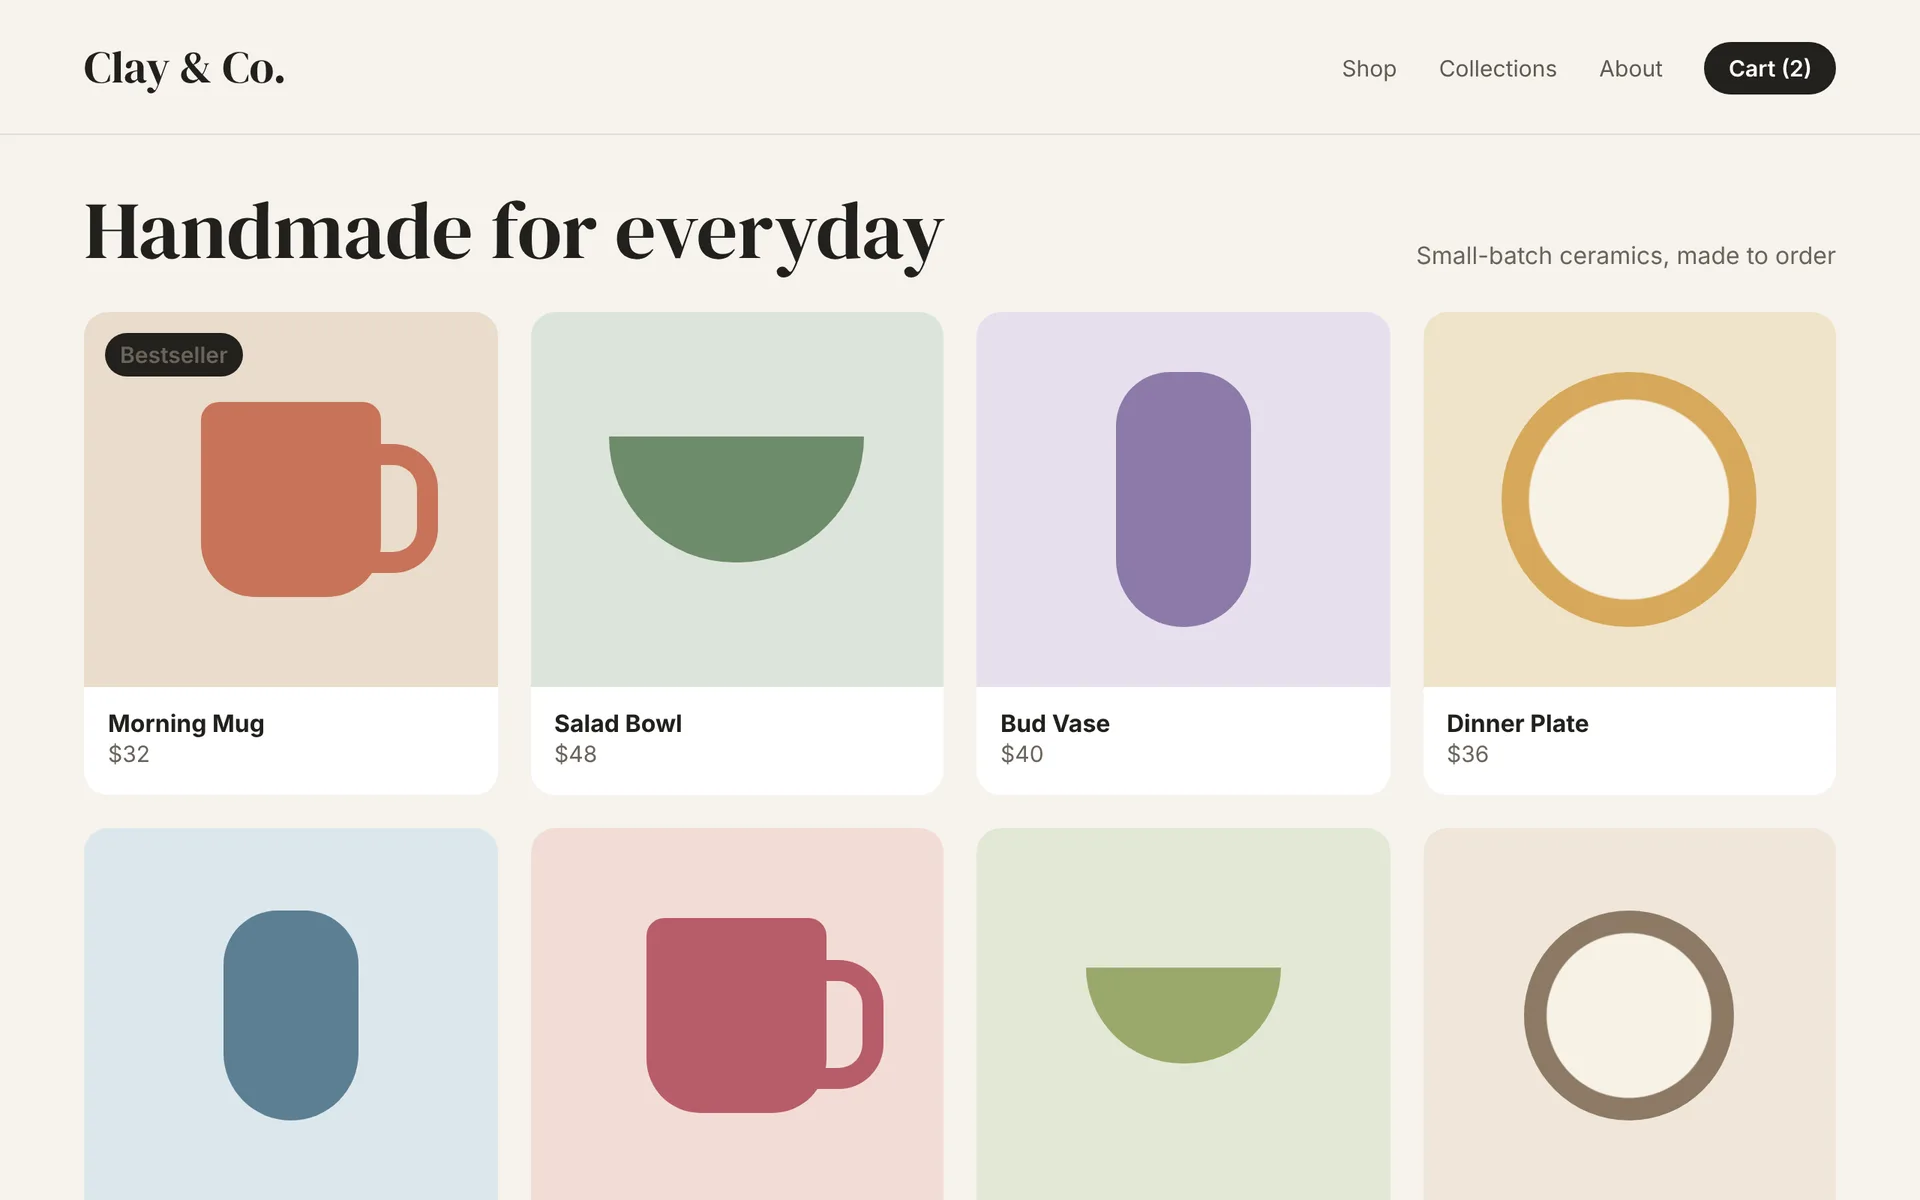
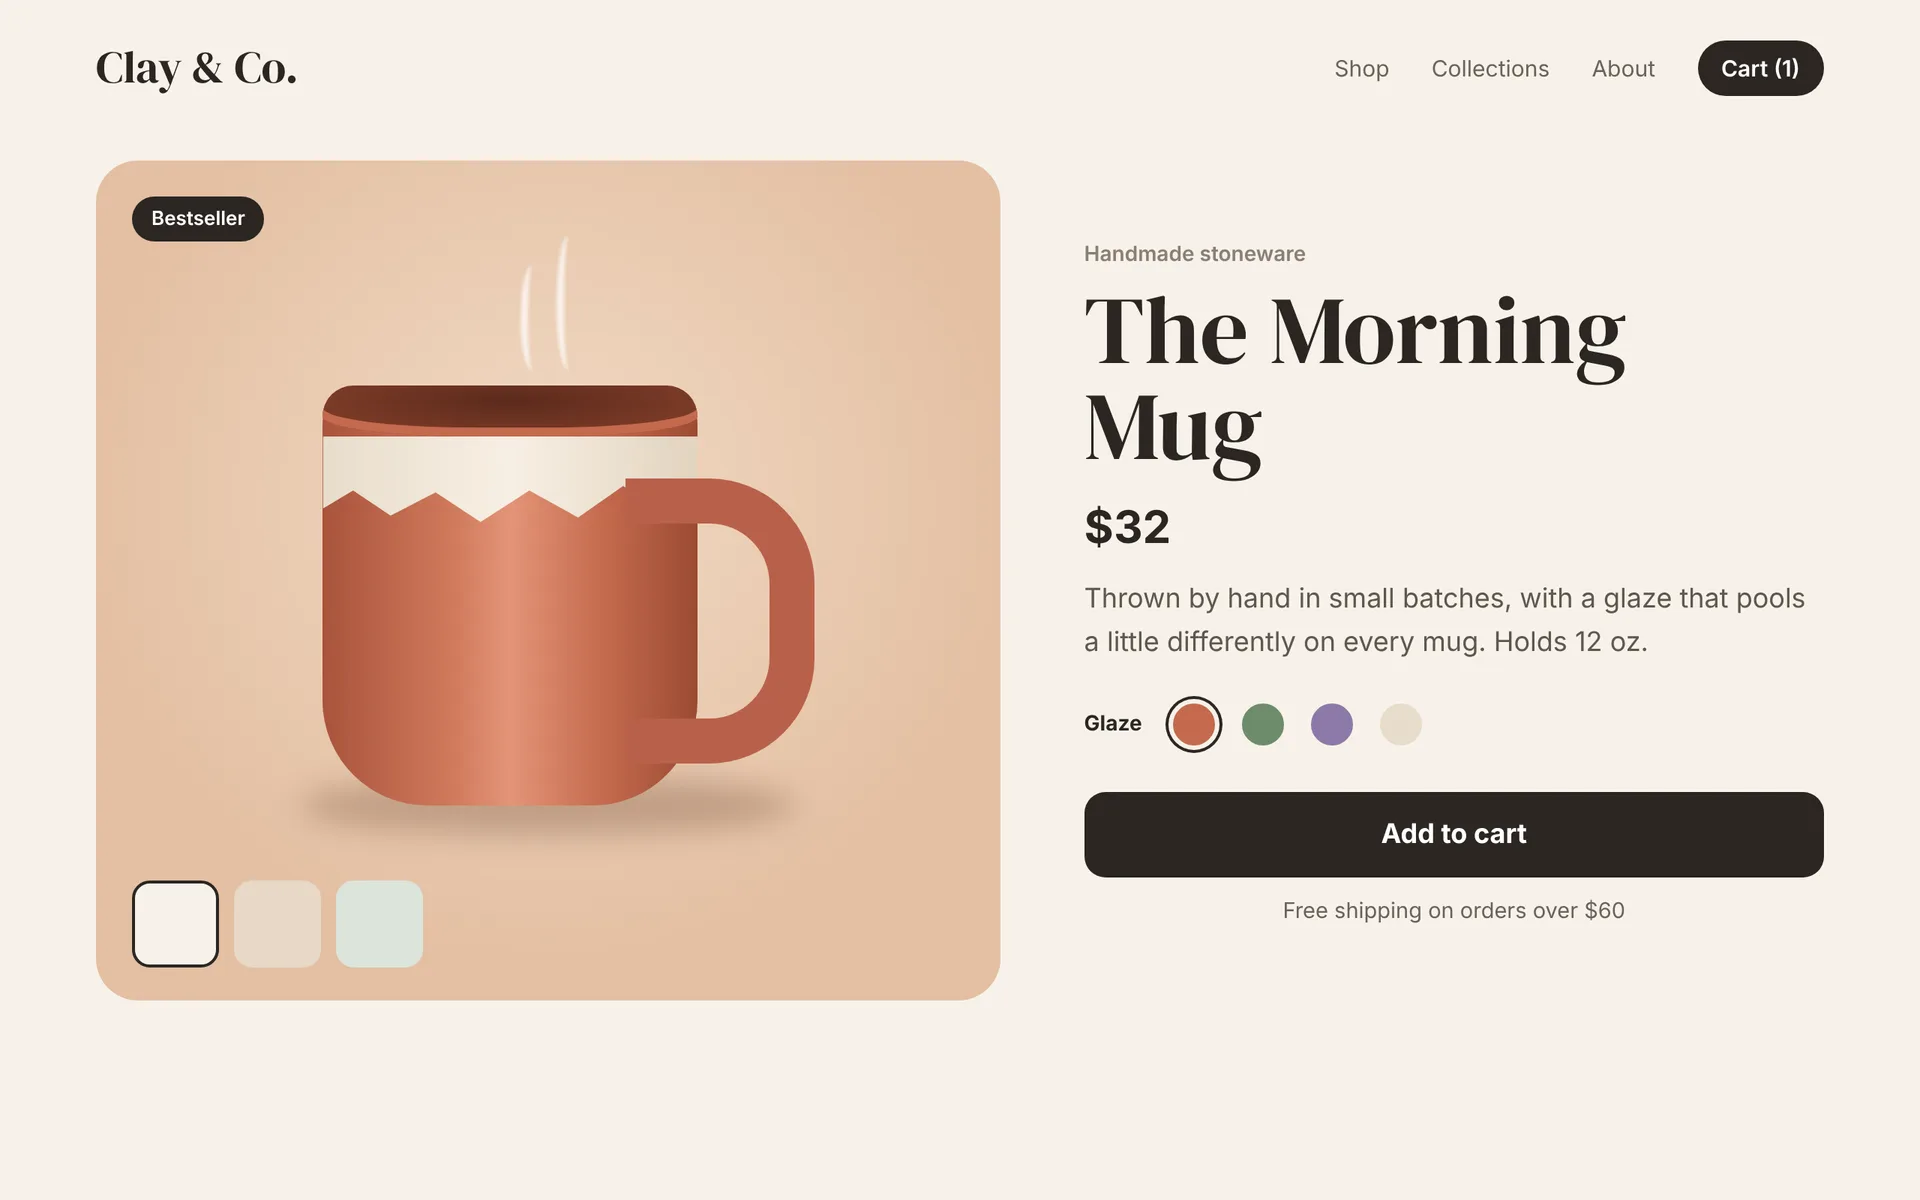
Launch page: redesign store and teacher example screens
Claude-Session: https://claude.ai/code/session_01K5HZtQp5HBm5zsBKCimSuC

diff --git a/ads/launch-page-mocks/store.html b/ads/launch-page-mocks/store.html
@@ -1,30 +1,33 @@
 <!doctype html><html><head><meta charset="utf-8"><link rel="stylesheet" href="fonts.css"><style>
-body{width:1280px;height:800px;background:#F6F3EE;color:#22201C}
-nav{display:flex;justify-content:space-between;align-items:center;padding:24px 56px;border-bottom:1px solid #E4DED4}
+body{width:1280px;height:800px;background:#F7F2EA;color:#2B2622}
+nav{display:flex;justify-content:space-between;align-items:center;padding:24px 64px}
 .lg{font-family:DMSerif;font-size:30px}
-nav div span{font-size:15px;color:#5F5A51;margin-left:28px}nav .cart{background:#22201C;color:#fff;border-radius:99px;padding:8px 16px;font-weight:600}
-.top{display:flex;justify-content:space-between;align-items:end;padding:36px 56px 0}
-h1{font-family:DMSerif;font-weight:400;font-size:54px;line-height:1}.top p{color:#6A645A;font-size:16px}
-.grid{display:grid;grid-template-columns:repeat(4,1fr);gap:22px;padding:28px 56px}
-.c{background:#fff;border-radius:16px;overflow:hidden}
-.ph{height:250px;display:grid;place-items:center;position:relative}
-.c .meta{padding:14px 16px 18px}.c b{display:block;font-size:16px}.c span{font-size:15px;color:#6A645A}
-.mug{width:120px;height:130px;border-radius:12px 12px 36px 36px;position:relative}
-.mug::after{content:"";position:absolute;right:-38px;top:28px;width:44px;height:58px;border:14px solid;border-color:inherit;border-radius:0 30px 30px 0;border-left:0}
-.bowl{width:170px;height:84px;border-radius:0 0 90px 90px}
-.vase{width:90px;height:170px;border-radius:40px 40px 50px 50px}
-.plate{width:170px;height:170px;border-radius:50%}
-.badge{position:absolute;top:14px;left:14px;background:#22201C;color:#fff;font-size:12px;font-weight:600;padding:5px 10px;border-radius:99px}
+nav div span{font-size:15px;color:#6A625A;margin-left:28px}nav .cart{background:#2B2622;color:#fff;border-radius:99px;padding:9px 16px;font-weight:600}
+.wrap{display:grid;grid-template-columns:1.1fr .9fr;gap:56px;padding:18px 64px 0;align-items:center}
+.stage{position:relative;height:560px;border-radius:28px;background:radial-gradient(circle at 50% 40%,#F1D9C4,#E3BFA2 70%);overflow:hidden}
+.shadow{position:absolute;left:50%;bottom:110px;width:330px;height:40px;margin-left:-165px;border-radius:50%;background:rgba(90,50,30,.28);filter:blur(10px)}
+.mug{position:absolute;left:50%;top:150px;width:250px;height:280px;margin-left:-150px;border-radius:26px 26px 70px 70px;background:linear-gradient(90deg,#A9533B 0%,#D07A5C 35%,#E39478 50%,#C46A4D 75%,#9B4A33 100%)}
+.mug::before{content:"";position:absolute;left:0;right:0;top:0;height:34px;border-radius:26px 26px 50% 50%;background:radial-gradient(ellipse at 50% 30%,#5B2A1C,#7A3A27 70%);box-shadow:inset 0 -6px 0 #C46A4D}
+.mug::after{content:"";position:absolute;right:-78px;top:62px;width:96px;height:130px;border:30px solid #B9604A;border-left:0;border-radius:0 70px 70px 0}
+.glaze{position:absolute;left:0;right:0;top:34px;height:60px;background:linear-gradient(90deg,#E8DCCB,#F7EFE3 50%,#E2D3BF);clip-path:polygon(0 0,100% 0,100% 50%,90% 80%,80% 55%,68% 90%,55% 60%,42% 95%,30% 62%,18% 88%,8% 60%,0 80%)}
+.steam{position:absolute;top:70px;width:16px;height:70px;border-radius:50%;border-left:5px solid rgba(255,255,255,.7);filter:blur(1px)}
+.tag{position:absolute;top:24px;left:24px;background:#2B2622;color:#fff;font-size:13px;font-weight:600;padding:7px 13px;border-radius:99px}
+.thumbs{position:absolute;bottom:22px;left:24px;display:flex;gap:10px}.thumbs i{width:58px;height:58px;border-radius:12px;background:#F7F2EA;border:2px solid transparent}.thumbs i:first-child{border-color:#2B2622}
+.k{font-size:14px;color:#8A7F74;font-weight:600}
+h1{font-family:DMSerif;font-weight:400;font-size:64px;line-height:1;margin-top:10px}
+.pr{font-size:30px;font-weight:700;margin-top:18px}
+p.s{font-size:18px;line-height:1.6;color:#5F574F;margin-top:16px}
+.sw{display:flex;gap:12px;margin-top:22px;align-items:center}.sw b{font-size:14px;margin-right:6px}.sw i{width:34px;height:34px;border-radius:50%;border:3px solid #F7F2EA;box-shadow:0 0 0 2px transparent}.sw i.on{box-shadow:0 0 0 2px #2B2622}
+.add{margin-top:28px;background:#2B2622;color:#fff;text-align:center;font-weight:700;font-size:18px;padding:18px;border-radius:14px}
+.ship{margin-top:14px;font-size:14.5px;color:#6A625A;text-align:center}
 </style></head><body>
-<nav><div class="lg">Clay &amp; Co.</div><div><span>Shop</span><span>Collections</span><span>About</span><span class="cart">Cart (2)</span></div></nav>
-<div class="top"><h1>Handmade for everyday</h1><p>Small-batch ceramics, made to order</p></div>
-<div class="grid">
-<div class="c"><div class="ph" style="background:#E9DCCB"><span class="badge">Bestseller</span><div class="mug" style="background:#C8735A;border-color:#C8735A"></div></div><div class="meta"><b>Morning Mug</b><span>$32</span></div></div>
-<div class="c"><div class="ph" style="background:#DCE4DA"><div class="bowl" style="background:#6E8B6B"></div></div><div class="meta"><b>Salad Bowl</b><span>$48</span></div></div>
-<div class="c"><div class="ph" style="background:#E6E0EE"><div class="vase" style="background:#8C7AA8"></div></div><div class="meta"><b>Bud Vase</b><span>$40</span></div></div>
-<div class="c"><div class="ph" style="background:#F0E3C9"><div class="plate" style="background:radial-gradient(circle,#F7F1E6 0 55%,#D6A85A 56%)"></div></div><div class="meta"><b>Dinner Plate</b><span>$36</span></div></div>
-<div class="c"><div class="ph" style="background:#DDE7EC"><div class="vase" style="background:#5C7F94;height:140px"></div></div><div class="meta"><b>Pitcher</b><span>$54</span></div></div>
-<div class="c"><div class="ph" style="background:#F2DCD6"><div class="mug" style="background:#B85C6A;border-color:#B85C6A"></div></div><div class="meta"><b>Tea Cup</b><span>$28</span></div></div>
-<div class="c"><div class="ph" style="background:#E3E8D6"><div class="bowl" style="background:#9AA86A;width:130px;height:64px"></div></div><div class="meta"><b>Cereal Bowl</b><span>$30</span></div></div>
-<div class="c"><div class="ph" style="background:#EFE6DA"><div class="plate" style="background:radial-gradient(circle,#F7F1E6 0 55%,#8C7A64 56%);width:140px;height:140px"></div></div><div class="meta"><b>Side Plate</b><span>$26</span></div></div>
-</div></body></html>
+<nav><div class="lg">Clay &amp; Co.</div><div><span>Shop</span><span>Collections</span><span>About</span><span class="cart">Cart (1)</span></div></nav>
+<div class="wrap"><div class="stage"><span class="tag">Bestseller</span>
+<div class="steam" style="left:560px;left:47%"></div><div class="steam" style="left:51%;top:50px;height:90px"></div>
+<div class="shadow"></div><div class="mug"><div class="glaze"></div></div>
+<div class="thumbs"><i></i><i style="background:#E7D8C6"></i><i style="background:#DCE4DA"></i></div></div>
+<div><span class="k">Handmade stoneware</span><h1>The Morning Mug</h1><div class="pr">$32</div>
+<p class="s">Thrown by hand in small batches, with a glaze that pools a little differently on every mug. Holds 12 oz.</p>
+<div class="sw"><b>Glaze</b><i class="on" style="background:#C46A4D"></i><i style="background:#6E8B6B"></i><i style="background:#8C7AA8"></i><i style="background:#E8DCCB"></i></div>
+<div class="add">Add to cart</div><p class="ship">Free shipping on orders over $60</p></div></div>
+</body></html>

diff --git a/ads/launch-page-mocks/teach.html b/ads/launch-page-mocks/teach.html
@@ -1,20 +1,23 @@
 <!doctype html><html><head><meta charset="utf-8"><link rel="stylesheet" href="fonts.css"><style>
-body{width:1280px;height:800px;background:#EEF4FF;color:#14213D}
+body{width:1280px;height:800px;background:#F2F6FF;color:#14213D}
 nav{display:flex;justify-content:space-between;align-items:center;padding:26px 64px}
 .lg{font-family:Grotesk;font-weight:700;font-size:24px}.lg i{font-style:normal;color:#3B6FE0}
 nav span{font-size:15px;color:#4A5878;margin-left:28px}
-.hero{display:grid;grid-template-columns:1fr 1fr;gap:40px;padding:30px 64px;align-items:center}
-.note{font-family:Caveat;font-weight:700;font-size:30px;color:#E0643B}
-h1{font-family:Grotesk;font-weight:700;font-size:62px;line-height:1;letter-spacing:-.03em;margin-top:8px}
-p.s{font-size:19px;line-height:1.55;color:#3F4C6B;margin-top:20px}
+.hero{display:grid;grid-template-columns:1fr 1fr;gap:40px;padding:26px 64px;align-items:center}
+.note{font-family:Caveat;font-weight:700;font-size:32px;color:#E0643B}
+h1{font-family:Grotesk;font-weight:700;font-size:64px;line-height:.98;letter-spacing:-.03em;margin-top:6px}
+p.s{font-size:19px;line-height:1.55;color:#3F4C6B;margin-top:18px}
 .grades{display:flex;gap:10px;margin-top:22px}.grades span{background:#fff;border:1.5px solid #C9D6F2;border-radius:10px;padding:8px 14px;font-weight:600;font-size:15px}
-.buy{display:flex;align-items:center;gap:18px;margin-top:28px}.btn{background:#3B6FE0;color:#fff;font-weight:700;font-size:18px;padding:18px 30px;border-radius:12px}
+.buy{display:flex;align-items:center;gap:18px;margin-top:28px}.btn{background:#3B6FE0;color:#fff;font-weight:700;font-size:18px;padding:18px 30px;border-radius:12px;box-shadow:0 10px 24px -10px #3B6FE0}
 .pr{font-family:Grotesk;font-weight:700;font-size:34px}
-.stack{position:relative;height:520px}
-.sh{position:absolute;width:330px;height:430px;background:#fff;border-radius:10px;box-shadow:0 20px 40px -20px rgba(20,33,61,.4);padding:28px}
-.sh h4{font-family:Grotesk;font-size:20px}.ln{height:10px;border-radius:5px;background:#E3EAF7;margin-top:14px}
-.box{display:flex;gap:10px;margin-top:18px}.box i{width:22px;height:22px;border:2px solid #C9D6F2;border-radius:6px}
-.star{position:absolute;right:30px;top:20px;width:110px;height:110px;border-radius:50%;background:#FFC93C;display:grid;place-items:center;text-align:center;font-family:Grotesk;font-weight:700;font-size:18px;line-height:1.05;transform:rotate(10deg)}
+.art{position:relative;height:560px}
+.blob{position:absolute;right:20px;top:40px;width:470px;height:470px;border-radius:50%;background:#FFE58A}
+.bk{position:absolute;width:250px;height:330px;border-radius:6px 16px 16px 6px;padding:30px 24px;color:#fff;box-shadow:18px 26px 40px -18px rgba(20,33,61,.5),inset 10px 0 0 rgba(0,0,0,.14)}
+.bk small{font-size:12px;font-weight:700;letter-spacing:.05em;opacity:.9}
+.bk b{display:block;font-family:Grotesk;font-size:34px;line-height:1;margin-top:12px}
+.bk em{display:block;font-style:normal;margin-top:12px;font-size:14px;opacity:.9}
+.bk .icon{position:absolute;bottom:26px;left:24px;font-size:56px}
+.pin{position:absolute;right:40px;top:30px;width:120px;height:120px;border-radius:50%;background:#E0643B;color:#fff;display:grid;place-items:center;text-align:center;font-family:Grotesk;font-weight:700;font-size:20px;line-height:1.05;transform:rotate(10deg);box-shadow:0 12px 24px -10px rgba(0,0,0,.35)}
 </style></head><body>
 <nav><div class="lg">Ms. Rivera's <i>Classroom</i></div><div><span>Resources</span><span>Freebies</span><span>About</span></div></nav>
 <div class="hero"><div>
@@ -23,8 +26,9 @@ p.s{font-size:19px;line-height:1.55;color:#3F4C6B;margin-top:20px}
 <p class="s">120 printable worksheets with answer keys. Print, copy and teach, with no prep on Sunday night.</p>
 <div class="grades"><span>Grade 3</span><span>Grade 4</span><span>Grade 5</span></div>
 <div class="buy"><span class="btn">Buy the kit</span><span class="pr">$19</span></div>
-</div><div class="stack">
-<div class="sh" style="left:70px;top:60px;transform:rotate(-8deg)"></div>
-<div class="sh" style="left:120px;top:40px;transform:rotate(3deg)"><h4>Main Idea &amp; Details</h4><div class="ln"></div><div class="ln" style="width:80%"></div><div class="ln" style="width:90%"></div><div class="box"><i></i><div class="ln" style="flex:1;margin:6px 0 0"></div></div><div class="box"><i></i><div class="ln" style="flex:1;margin:6px 0 0"></div></div><div class="box"><i></i><div class="ln" style="flex:1;margin:6px 0 0"></div></div><div class="ln" style="margin-top:26px"></div><div class="ln" style="width:70%"></div></div>
-<div class="star">120<br>pages</div>
+</div><div class="art"><div class="blob"></div>
+<div class="bk" style="left:40px;top:130px;background:linear-gradient(160deg,#F28B50,#E0643B);transform:rotate(-12deg)"><small>BOOK 1</small><b>Main Idea</b><em>40 worksheets</em><div class="icon">📖</div></div>
+<div class="bk" style="left:330px;top:120px;background:linear-gradient(160deg,#5ACB9A,#2FA77A);transform:rotate(9deg)"><small>BOOK 3</small><b>Making Inferences</b><em>40 worksheets</em><div class="icon">💡</div></div>
+<div class="bk" style="left:180px;top:70px;background:linear-gradient(160deg,#5B8CF0,#3B6FE0);transform:rotate(-2deg)"><small>BOOK 2</small><b>Story Elements</b><em>40 worksheets</em><div class="icon">✏</div></div>
+<div class="pin">120<br>pages</div>
 </div></div></body></html>

diff --git a/site/lp/launch/index.html b/site/lp/launch/index.html
@@ -177,7 +177,7 @@ if(h.indexOf('checkout.oceanicfunnels.com')>-1){fbq('track','InitiateCheckout',{
 <section class="ln-sec"><div class="nf-wrap">
   <h2>What you can build with Launch</h2>
   <p class="lead">Example pages for the kinds of businesses that start on Launch. Pick a template, swap in your own words and products, and publish.</p>
-  <div class="ln-gal"><figure><div class="ln-bw"><div class="tb"><i></i><i></i><i></i></div><div class="im"><img src="/assets/launch/sales.webp" alt="Example sales page for a meal prep guide" width="1920" height="1200" loading="lazy"></div></div><figcaption><b>A sales page for a guide</b><span>Sell a recipe book, workbook or any digital download.</span></figcaption></figure><figure><div class="ln-bw"><div class="tb"><i></i><i></i><i></i></div><div class="im"><img src="/assets/launch/store.webp" alt="Example online store selling handmade ceramics" width="1920" height="1200" loading="lazy"></div></div><figcaption><b>An online store</b><span>List your products, set prices and take orders.</span></figcaption></figure><figure><div class="ln-bw"><div class="tb"><i></i><i></i><i></i></div><div class="im"><img src="/assets/launch/teach.webp" alt="Example page selling a teacher&#x27;s reading kit" width="1920" height="1200" loading="lazy"></div></div><figcaption><b>A page for printable resources</b><span>Turn what you teach into a kit people can buy.</span></figcaption></figure></div>
+  <div class="ln-gal"><figure><div class="ln-bw"><div class="tb"><i></i><i></i><i></i></div><div class="im"><img src="/assets/launch/sales.webp" alt="Example sales page for a meal prep guide" width="1920" height="1200" loading="lazy"></div></div><figcaption><b>A sales page for a guide</b><span>Sell a recipe book, workbook or any digital download.</span></figcaption></figure><figure><div class="ln-bw"><div class="tb"><i></i><i></i><i></i></div><div class="im"><img src="/assets/launch/store.webp" alt="Example online store selling handmade ceramics" width="1920" height="1200" loading="lazy"></div></div><figcaption><b>An online store</b><span>Show off your products, set prices and take orders.</span></figcaption></figure><figure><div class="ln-bw"><div class="tb"><i></i><i></i><i></i></div><div class="im"><img src="/assets/launch/teach.webp" alt="Example page selling a teacher&#x27;s reading kit" width="1920" height="1200" loading="lazy"></div></div><figcaption><b>A page for printable resources</b><span>Turn what you teach into a kit people can buy.</span></figcaption></figure></div>
 </div></section>
 <section class="ln-sec"><div class="nf-wrap ln-center">
   <h2>Stop Planning. Start Building.</h2>

diff --git a/src/pages.py b/src/pages.py
@@ -1424,7 +1424,7 @@ def lp_launch(cfg, fonts, logo):
     ICO = {'Unlimited Sales Funnels': '<path d="M3 4h18l-7 8v6l-4 2v-8z"/>', 'Unlimited Websites': '<rect x="3" y="4" width="18" height="16" rx="2"/><path d="M3 9h18"/>', 'Your Own Online Store': '<path d="M4 8h16l-1 12H5z"/><path d="M9 8a3 3 0 0 1 6 0"/>', 'Built-In Payment Collection': '<rect x="2" y="5" width="20" height="14" rx="2"/><path d="M2 10h20M6 15h4"/>', 'Drag-and-Drop Page Builder': '<rect x="3" y="3" width="8" height="8" rx="1.5"/><rect x="13" y="13" width="8" height="8" rx="1.5"/><path d="M15 3h6v6M9 21H3v-6"/>', 'One Place to Build and Sell': '<path d="M12 3l9 5-9 5-9-5z"/><path d="M3 13l9 5 9-5"/>'}
     gal = "".join(f'<figure><div class="ln-bw"><div class="tb"><i></i><i></i><i></i></div><div class="im"><img src="/assets/launch/{f}.webp" alt="{E(alt)}" width="1920" height="1200" loading="lazy"></div></div><figcaption><b>{E(t)}</b><span>{E(d)}</span></figcaption></figure>'
                   for f, t, d, alt in [("sales", "A sales page for a guide", "Sell a recipe book, workbook or any digital download.", "Example sales page for a meal prep guide"),
-                                       ("store", "An online store", "List your products, set prices and take orders.", "Example online store selling handmade ceramics"),
+                                       ("store", "An online store", "Show off your products, set prices and take orders.", "Example online store selling handmade ceramics"),
                                        ("teach", "A page for printable resources", "Turn what you teach into a kit people can buy.", "Example page selling a teacher's reading kit")])
     body = f'''<section class="lp-hero nf-hatch">
   {head}
